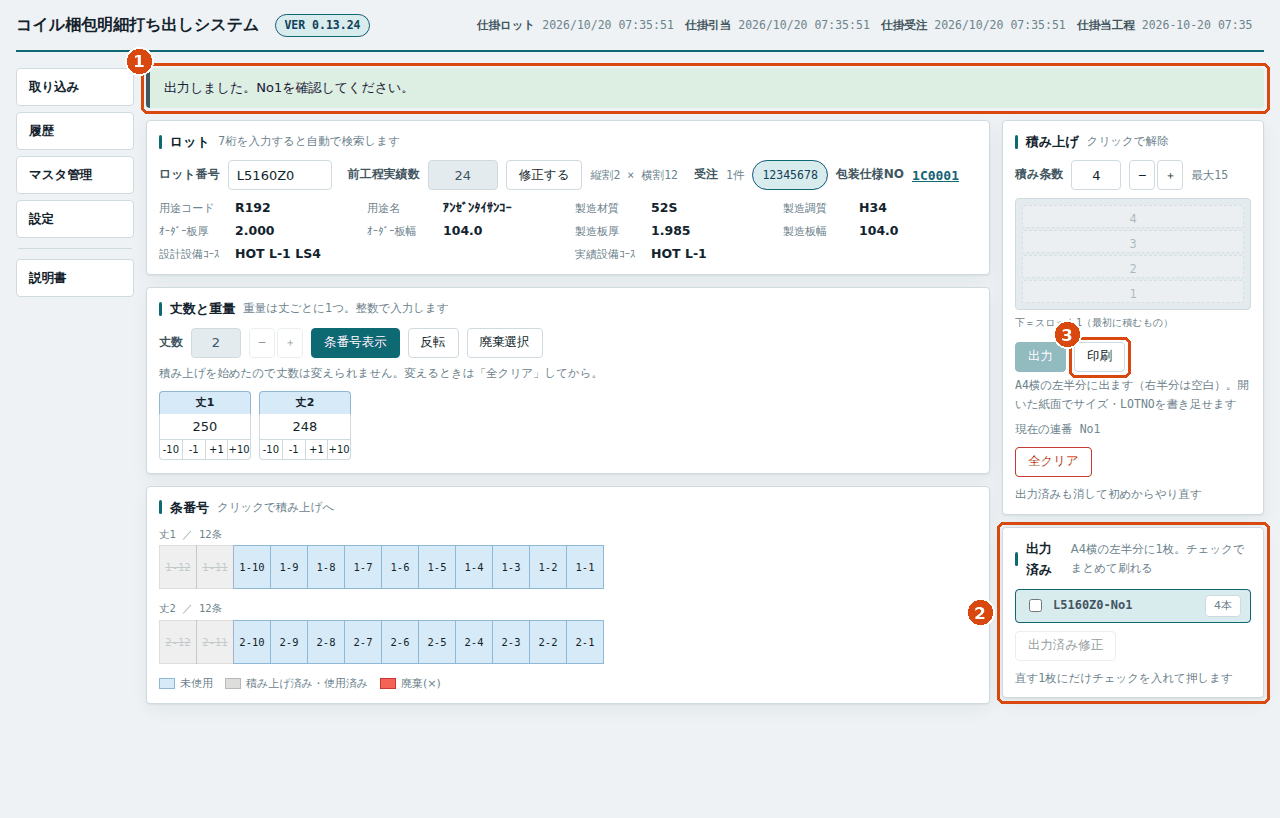
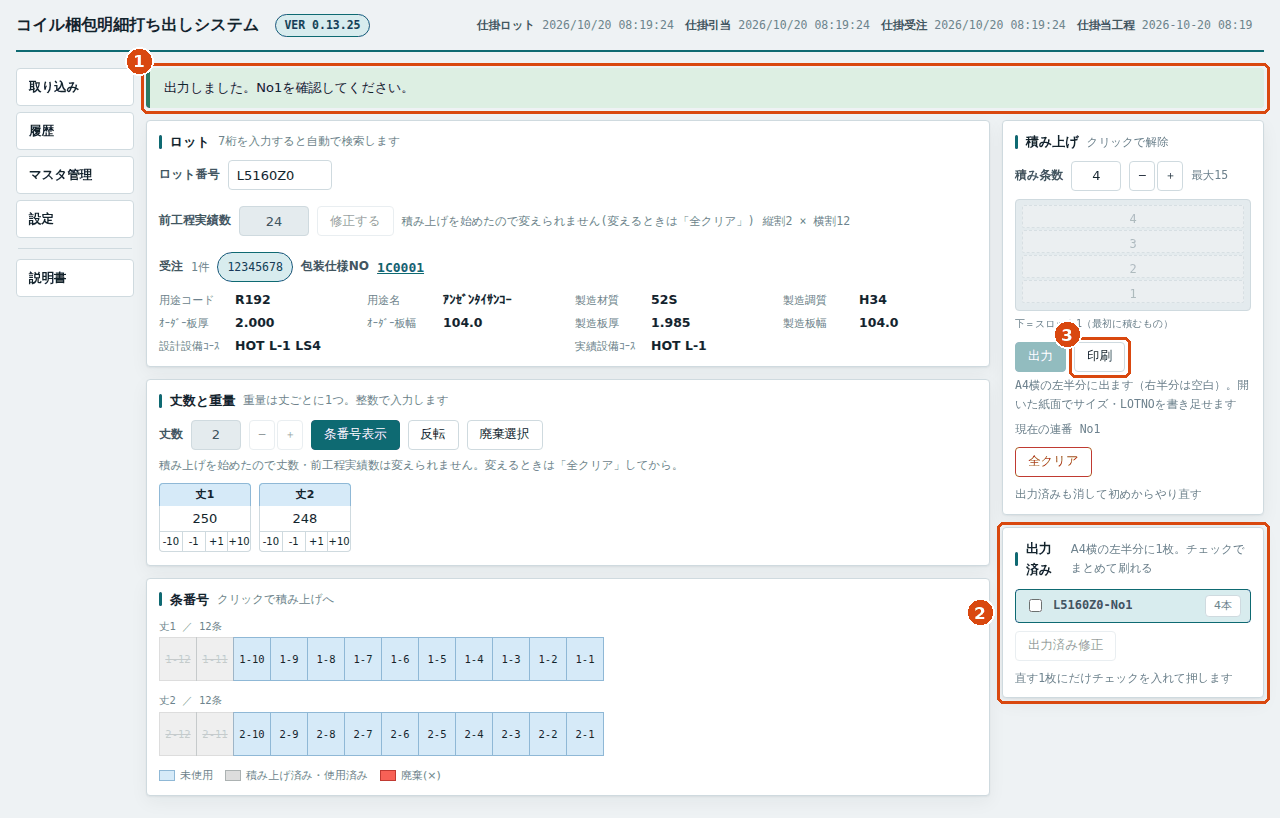
梱包明細: 積み上げを始めたら前工程実績数も変えられないように(VER 0.13.25 / 統合 1.2.25)
- 出力済みがある・積み上げにコイルがある・使用済みのコイルがあるロットは前工程実績数を
  変えられない(「修正する」を止めて全クリアを案内、サーバも 409 zen_kotei_locked)。
  出力済みの修正中も断る。打ちかけの「確定する」は取りやめて元の値に戻す
- 試験・通し試験・説明書・ツール文書・変更履歴を更新

Claude-Session: https://claude.ai/code/session_01SzANNFLBT4btJLa5AqpmH3

diff --git a/modules/packing_details/app/templates/meisai.html b/modules/packing_details/app/templates/meisai.html
@@ -76,6 +76,8 @@
         <label for="zenKotei">前工程実績数</label>
         <input type="text" id="zenKotei" readonly style="width:70px;text-align:center">
         <button type="button" id="btnEditZen">修正する</button>
+        {# 積み上げを始めたら前工程実績数は変えられない(VER 0.13.25) #}
+        <span class="stamp" id="zenLockNote" hidden>積み上げを始めたので変えられません(変えるときは「全クリア」)</span>
         <span class="stamp" id="warisu"></span>
       </div>
       <div class="row" id="orderRow" hidden>
@@ -115,7 +117,7 @@
       <button type="button" id="btnHaiki">廃棄選択</button>
     </div>
     {# 積み上げを始めたら丈数は変えられない(VER 0.13.24) #}
-    <div class="stamp" id="jouLockNote" hidden style="margin:-2px 0 8px">積み上げを始めたので丈数は変えられません。変えるときは「全クリア」してから。</div>
+    <div class="stamp" id="jouLockNote" hidden style="margin:-2px 0 8px">積み上げを始めたので丈数・前工程実績数は変えられません。変えるときは「全クリア」してから。</div>
     <div class="weights" id="weights"></div>
   </section>
 

diff --git a/templates/manual/details.html b/templates/manual/details.html
@@ -39,7 +39,7 @@
 {{ m.fig("details-lot", "ロット番号を7桁入れたところ。割数・受注・包装仕様NO・ロットの情報が出ます。") }}
 <ol class="steps">
   <li>{{ m.n(1) }}<b>ロット番号</b>に7桁を入れます。小文字は大文字に直ります。7桁そろうと自動で探します。</li>
-  <li>{{ m.n(2) }}<b>割数</b>(例:縦割2 × 横割12)と<b>前工程実績数</b>が自動で入ります。違うときは {{ m.b('修正する') }} で直せます。</li>
+  <li>{{ m.n(2) }}<b>割数</b>(例:縦割2 × 横割12)と<b>前工程実績数</b>が自動で入ります。違うときは {{ m.b('修正する') }} で直せます(積み上げを始めたら直せません。直すときは {{ m.b('全クリア') }} してから)。</li>
   <li>{{ m.n(3) }}用途・材質・板厚・板幅などロットの情報が出ます。合っているか確かめます。</li>
 </ol>
 <div class="tip"><b>コツ</b>同じロットを前に途中までやっていたときは、「前回の条番号情報を復元しました」と出て、続きから始まります。</div>

diff --git a/modules/packing_details/app/static/js/meisai.js b/modules/packing_details/app/static/js/meisai.js
@@ -319,6 +319,17 @@ function renderEdit(state) {
   $("jouSu").disabled = jouLocked;
   document.querySelectorAll("[data-jou]").forEach((b) => { b.disabled = jouLocked; });
   $("jouLockNote").hidden = !(state.jou_su_locked && !edit);
+  // 前工程実績数も、修正中か積み上げを始めたら変えられない(VER 0.13.25)
+  const zenLocked = Boolean(edit) || Boolean(state.zen_kotei_locked);
+  $("btnEditZen").disabled = zenLocked;
+  $("zenLockNote").hidden = !(state.zen_kotei_locked && !edit);
+  if (zenLocked && editingZen) {
+    // 打ちかけの「確定する」は取りやめる(サーバも断る)
+    editingZen = false;
+    $("zenKotei").readOnly = true;
+    $("zenKotei").value = state.zen_kotei || "";
+    $("btnEditZen").textContent = "修正する";
+  }
   if (!edit) return;
   $("editTitle").textContent = `No${edit.no}を修正中`;
   $("editBefore").textContent = `修正前: ${edit.keys.join(" ")}`;

diff --git a/modules/packing_details/app/routes/meisai.py b/modules/packing_details/app/routes/meisai.py
@@ -157,6 +157,7 @@ def _state(conn) -> dict:
     """いま画面がどう見えるか。**操作のたびにこれを丸ごと返す。**"""
     board = session.current()
     lot = session.lot()
+    started = bool(board and _stacking_started(conn, board))
 
     state: dict = {
         "lot_no": board.lot_no if board else "",
@@ -176,7 +177,9 @@ def _state(conn) -> dict:
         "reversed": board.reversed_view if board else False,
         "complete": board.is_complete if board else False,
         # 積み上げを始めたら丈数は変えられない(VER 0.13.24)。変えるときは全クリア
-        "jou_su_locked": bool(board and _stacking_started(conn, board)),
+        "jou_su_locked": started,
+        # 前工程実績数も同じ(VER 0.13.25)。変えて条番号表示を押すと条番号が配り直される
+        "zen_kotei_locked": started,
         # 出力済みの修正中なら、そのNoと修正前の積み順(VER 0.13.23)
         "edit": ({"no": board.edit_no, "keys": list(board.edit_keys)}
                  if board is not None and board.editing else None),
@@ -226,8 +229,9 @@ def _stacking_started(conn, board) -> bool:
     """そのロットで積み上げを始めたか(VER 0.13.24・現場の求め)。
 
     出力済みがある・積み上げにコイルがある・使用済みのコイルがある(途中経過から戻した
-    ものを含む)のどれか。始めたら丈数は変えさせない ── 丈数を変えると条番号を配り直す
-    ので、積んだ副番・出力済みの紙と食い違う。変えるときは全クリアしてから。
+    ものを含む)のどれか。始めたら丈数・前工程実績数(VER 0.13.25)は変えさせない ──
+    どちらも条番号の配り直しにつながり、積んだ副番・出力済みの紙と食い違う。
+    変えるときは全クリアしてから。
     """
     if any(board.slots) or board.restored_used:
         return True
@@ -332,6 +336,16 @@ def set_zen_kotei():
     if board is None:
         return jsonify(error_body("no_lot", "ロット番号を入力してください。")), 409
 
+    refused = _editing_refusal(board, "前工程実績数の変更")
+    if refused:
+        return refused
+    # 積み上げを始めたら断る(VER 0.13.25・現場の求め)。前工程実績数を変えて条番号表示を
+    # 押すと条番号が配り直され、積んだ副番・出力済みの紙と食い違う。変えるときは全クリア
+    if _stacking_started(conn, board):
+        return jsonify(error_body(
+            "zen_kotei_locked",
+            "積み上げを始めたロットは前工程実績数を変えられません。"
+            "変えるときは「全クリア」してからにしてください。", "value")), 409
     raw = str((request.get_json(silent=True) or {}).get("value", "")).strip()
     if not (raw.isascii() and raw.isdigit()):
         return jsonify(error_body(

diff --git a/modules/packing_details/tests/test_web.py b/modules/packing_details/tests/test_web.py
@@ -973,6 +973,63 @@ class JouSuLockTest(unittest.TestCase):
         self.assertTrue(self._jou().get_json()["ok"])
 
 
+class ZenKoteiLockTest(unittest.TestCase):
+    """積み上げを始めたロットは前工程実績数を変えられない(VER 0.13.25・現場の求め)。"""
+
+    def setUp(self):
+        self.client, self.conn = _client(self)
+        _seed(self.conn)
+        _post(self.client, "/api/lot", {"lot_no": "L5160Z0"})
+        _post(self.client, "/api/weights", {"weights": ["250", "248"]})
+        _post(self.client, "/api/strands", {})
+        _post(self.client, "/api/stack-max", {"value": "2"})
+
+    def _zen(self, value="30"):
+        return _post(self.client, "/api/zen-kotei", {"value": value})
+
+    def test_積む前なら変えられる(self):
+        body = self._zen().get_json()
+        self.assertTrue(body["ok"])
+        self.assertEqual(body["state"]["zen_kotei"], 30)
+        self.assertFalse(body["state"]["zen_kotei_locked"])
+
+    def test_1本でも積んだら断る(self):
+        state = _post(self.client, "/api/stack", {"key": "1-12"}).get_json()["state"]
+        self.assertTrue(state["zen_kotei_locked"])
+        res = self._zen()
+        self.assertEqual(res.status_code, 409)
+        self.assertEqual(res.get_json()["error"]["code"], "zen_kotei_locked")
+        self.assertIn("全クリア", res.get_json()["error"]["message"])
+        self.assertEqual(session.current().zen_kotei, 24)
+
+    def test_出力済みがあれば_開き直しても断る(self):
+        _post(self.client, "/api/stack", {"key": "1-12"})
+        _post(self.client, "/api/stack", {"key": "2-12"})
+        _post(self.client, "/api/output", {"confirm": True})
+        self.assertEqual(self._zen().status_code, 409)
+        session.clear()
+        state = _post(self.client, "/api/lot", {"lot_no": "L5160Z0"}).get_json()["state"]
+        self.assertTrue(state["zen_kotei_locked"])
+        self.assertEqual(self._zen().status_code, 409)
+
+    def test_修正中も断る(self):
+        _post(self.client, "/api/stack", {"key": "1-12"})
+        _post(self.client, "/api/stack", {"key": "2-12"})
+        _post(self.client, "/api/output", {"confirm": True})
+        _post(self.client, "/api/edit-output", {"no": 1})
+        res = self._zen()
+        self.assertEqual(res.status_code, 409)
+        self.assertEqual(res.get_json()["error"]["code"], "editing")
+
+    def test_全クリアすれば変えられる(self):
+        _post(self.client, "/api/stack", {"key": "1-12"})
+        _post(self.client, "/api/stack", {"key": "2-12"})
+        _post(self.client, "/api/output", {"confirm": True})
+        state = _post(self.client, "/api/clear-all", {"confirm": True}).get_json()["state"]
+        self.assertFalse(state["zen_kotei_locked"])
+        self.assertTrue(self._zen().get_json()["ok"])
+
+
 class SettingsTest(unittest.TestCase):
     """設定。"""
 

diff --git a/tools/e2e_scenarios.py b/tools/e2e_scenarios.py
@@ -444,6 +444,9 @@ def details_edit_output(fr):
           fr.evaluate("document.querySelector('#jouSu').disabled")
           and visible(fr, "#jouLockNote") and "全クリア" in text(fr, "#jouLockNote"),
           text(fr, "#jouLockNote"))
+    check("梱包明細: 積み上げを始めたら前工程実績数も変えられない(VER 0.13.25)",
+          fr.evaluate("document.querySelector('#btnEditZen').disabled") and visible(fr, "#zenLockNote"),
+          text(fr, "#zenLockNote"))
 
 
 # ---- ペナラベル ------------------------------------------------------

diff --git a/docs/ツール文書/11_梱包明細_仕様.md b/docs/ツール文書/11_梱包明細_仕様.md
@@ -1,6 +1,6 @@
 # 梱包明細 仕様
 
-対象の版: 梱包明細 VER 0.13.24(コイル梱包ツール 1.2.24)
+対象の版: 梱包明細 VER 0.13.25(コイル梱包ツール 1.2.25)
 
 この文書は、機能「梱包明細(コイル梱包明細打ち出しシステム)」が何をするか・どこのデータを使うか・どんな決まりで判定するかをまとめたものです。
 コードは `modules/packing_details/` にあります。現場向けの使い方は [12_梱包明細_操作説明.md](12_梱包明細_操作説明.md)、作りの考え方は [13_梱包明細_思想とモード.md](13_梱包明細_思想とモード.md) を見てください。
@@ -159,6 +159,7 @@ VBA と同じ順で確かめます。
 - 出力済みの修正中は断ります(409 `editing`)
 - 丈数を変えると、重量・条番号・積み上げ・廃棄をすべて作り直します(`/api/jou-su`。出力済みの修正中は断る)
 - **積み上げを始めたロットは丈数を変えられません**(VER 0.13.24)。出力済みがある・積み上げにコイルがある・使用済みのコイルがある(途中経過から戻したものを含む)ときは 409 `jou_su_locked`。画面の状態 `jou_su_locked` で欄と −/＋ を止めて案内を出す。変えるときは全クリア
+- **前工程実績数も同じ**(VER 0.13.25): 積み上げを始めたら `/api/zen-kotei` は 409 `zen_kotei_locked`、出力済みの修正中は 409 `editing`。画面は `zen_kotei_locked` で「修正する」を止めて案内を出す
 - **反転**(`/api/reverse`)は表示の左右を入れ替えるだけで、番号も状態も変わりません
 
 ### 4.4 積み上げ(`/api/stack-max` `/api/stack` `/api/unstack`)
@@ -418,7 +419,7 @@ VBA と同じ順で確かめます。
 | 409 | `screen_taken` | 持ち主でない画面からの操作(引き継がれた古いタブ) |
 | 409 | `no_lot` `no_strands` | ロットを開いていない・条番号が出ていない |
 | 409 | `bad_edit` | 作り直された明細への書き足し |
-| 409 | `jou_su_locked` | 積み上げを始めたロットで丈数を変えようとした(全クリアしてから) |
+| 409 | `jou_su_locked` `zen_kotei_locked` | 積み上げを始めたロットで丈数・前工程実績数を変えようとした(全クリアしてから) |
 | 409 | `editing` | 出力済みの修正中に、条番号表示・丈数の変更・もう 1 枚の修正をしようとした |
 | 503 | `write_failed` | 手元の DB に書けなかった(待つのはまとまりごとに最大 13.5 秒) |
 | 503 | `shared_unreachable` | 共有に届かないので右上の文字・管理者パスワードを変えられない |

diff --git a/docs/ツール文書/13_梱包明細_思想とモード.md b/docs/ツール文書/13_梱包明細_思想とモード.md
@@ -1,6 +1,6 @@
 # 梱包明細 思想とモード
 
-対象の版: 梱包明細 VER 0.13.24(コイル梱包ツール 1.2.24)
+対象の版: 梱包明細 VER 0.13.25(コイル梱包ツール 1.2.25)
 
 梱包明細を「なぜこの作りにしたか」と、「ツールの中にどんな状態・モードがあるか」をまとめます。
 根拠は、コードのコメント(`modules/packing_details/` の各ファイルの冒頭)・`modules/packing_details/README.md`・`modules/packing_details/docs/変更履歴.md` です。
@@ -31,7 +31,7 @@
 | 「はい/いいえ」は 2 往復にする | Web は 1 往復で尋ねられないので、まず確認事項を返し、了解されたら `confirm` 付きで呼び直す。**何を尋ねるかの判断は VBA と同じ** |
 | 「出力済み修正」を足し、「No指定」「副番履歴クリア」を外す | VBA には出し直し専用のボタンが無く、「No指定」(重複を確かめずに同じ番号へ上書き)で出し直していた。出したコイルは使用済みでほどけないので、積み直すには「副番履歴クリア」か「条番号表示」で使用済みをほどくしかなく、**ほかの No のコイルまでほどけて二重に積めた**。出し直しを 1 つの操作にまとめ、ほかの No のコイルは積めないようにした(VER 0.13.23・現場の判断) |
 | 「全クリア」を足す | やり直すときは途中から直すより初めからのほうがよいことが多い(現場)。出力済み・副番履歴・連番・途中経過をまとめて消す。紙の履歴は消さずに「取り消し」と残す(VER 0.13.23) |
-| 積み上げを始めたら丈数を変えられない | 丈数を変えると条番号を配り直し、積んだ副番・出した紙と食い違う。変えるときは全クリアしてから(VER 0.13.24・現場の求め) |
+| 積み上げを始めたら丈数・前工程実績数を変えられない | どちらも条番号の配り直しにつながり、積んだ副番・出した紙と食い違う。変えるときは全クリアしてから(VER 0.13.24・0.13.25・現場の求め) |
 | 条番号を再表示しても、出力済みのコイルは使用済みのまま | VBA は再表示で使用済みが全部ほどけ、副番履歴クリアと同じく出したコイルを次の No へまた積めた(VER 0.13.23) |
 
 取り込みでは、取り込み元が全列文字(`オーダー板丈` は `'0'` ではなく `'0.0'`)なので、VBA の条件をそのまま当てると 1 件も一致しません。取り込むときに数へ直すことを README は「**この変換が移植の要点です**」と書いています。

diff --git a/docs/ツール文書/12_梱包明細_操作説明.md b/docs/ツール文書/12_梱包明細_操作説明.md
@@ -1,6 +1,6 @@
 # 梱包明細 操作説明
 
-対象の版: 梱包明細 VER 0.13.24(コイル梱包ツール 1.2.24)
+対象の版: 梱包明細 VER 0.13.25(コイル梱包ツール 1.2.25)
 
 ロットを開いて重量を入れ、積む順にコイルを押して **梱包明細表** を出す手順です。
 統合画面の上の帯の「説明書」(写真入り。`templates/manual/details.html`)と同じ流れで書いています。決まりの細かいところは [11_梱包明細_仕様.md](11_梱包明細_仕様.md) を見てください。
@@ -128,7 +128,7 @@
 
 - **No指定** と **副番履歴クリア** は VER 0.13.23 で外しました。副番履歴だけ消すと、No1〜No3 で使ったコイルを No4 へまた積めてしまうためです。1 枚の間違いは出力済み修正、何枚も崩れたときは全クリアを使います
 - 条番号を出し直しても、出力済みのコイルは使用済みのままです(VER 0.13.23 から)
-- **積み上げを始めたロットは丈数を変えられません**(VER 0.13.24 から)。丈数の欄が止まり「変えるときは「全クリア」してから」と出ます
+- **積み上げを始めたロットは丈数と前工程実績数を変えられません**(丈数は VER 0.13.24、前工程実績数は 0.13.25 から)。丈数の欄と「修正する」が止まり「変えるときは「全クリア」してから」と出ます
 - 全クリアで「取り消し」になるのは、その時点で出力済みにある紙だけです。前に作り直された紙は「作り直し」、前の全クリアで取り消した紙は「取り消し」のまま残ります
 - **別のロットへ切り替えると**、前のロットの出力済み・副番の記録・連番・途中経過は消えます(明細の履歴には残ります)
 
